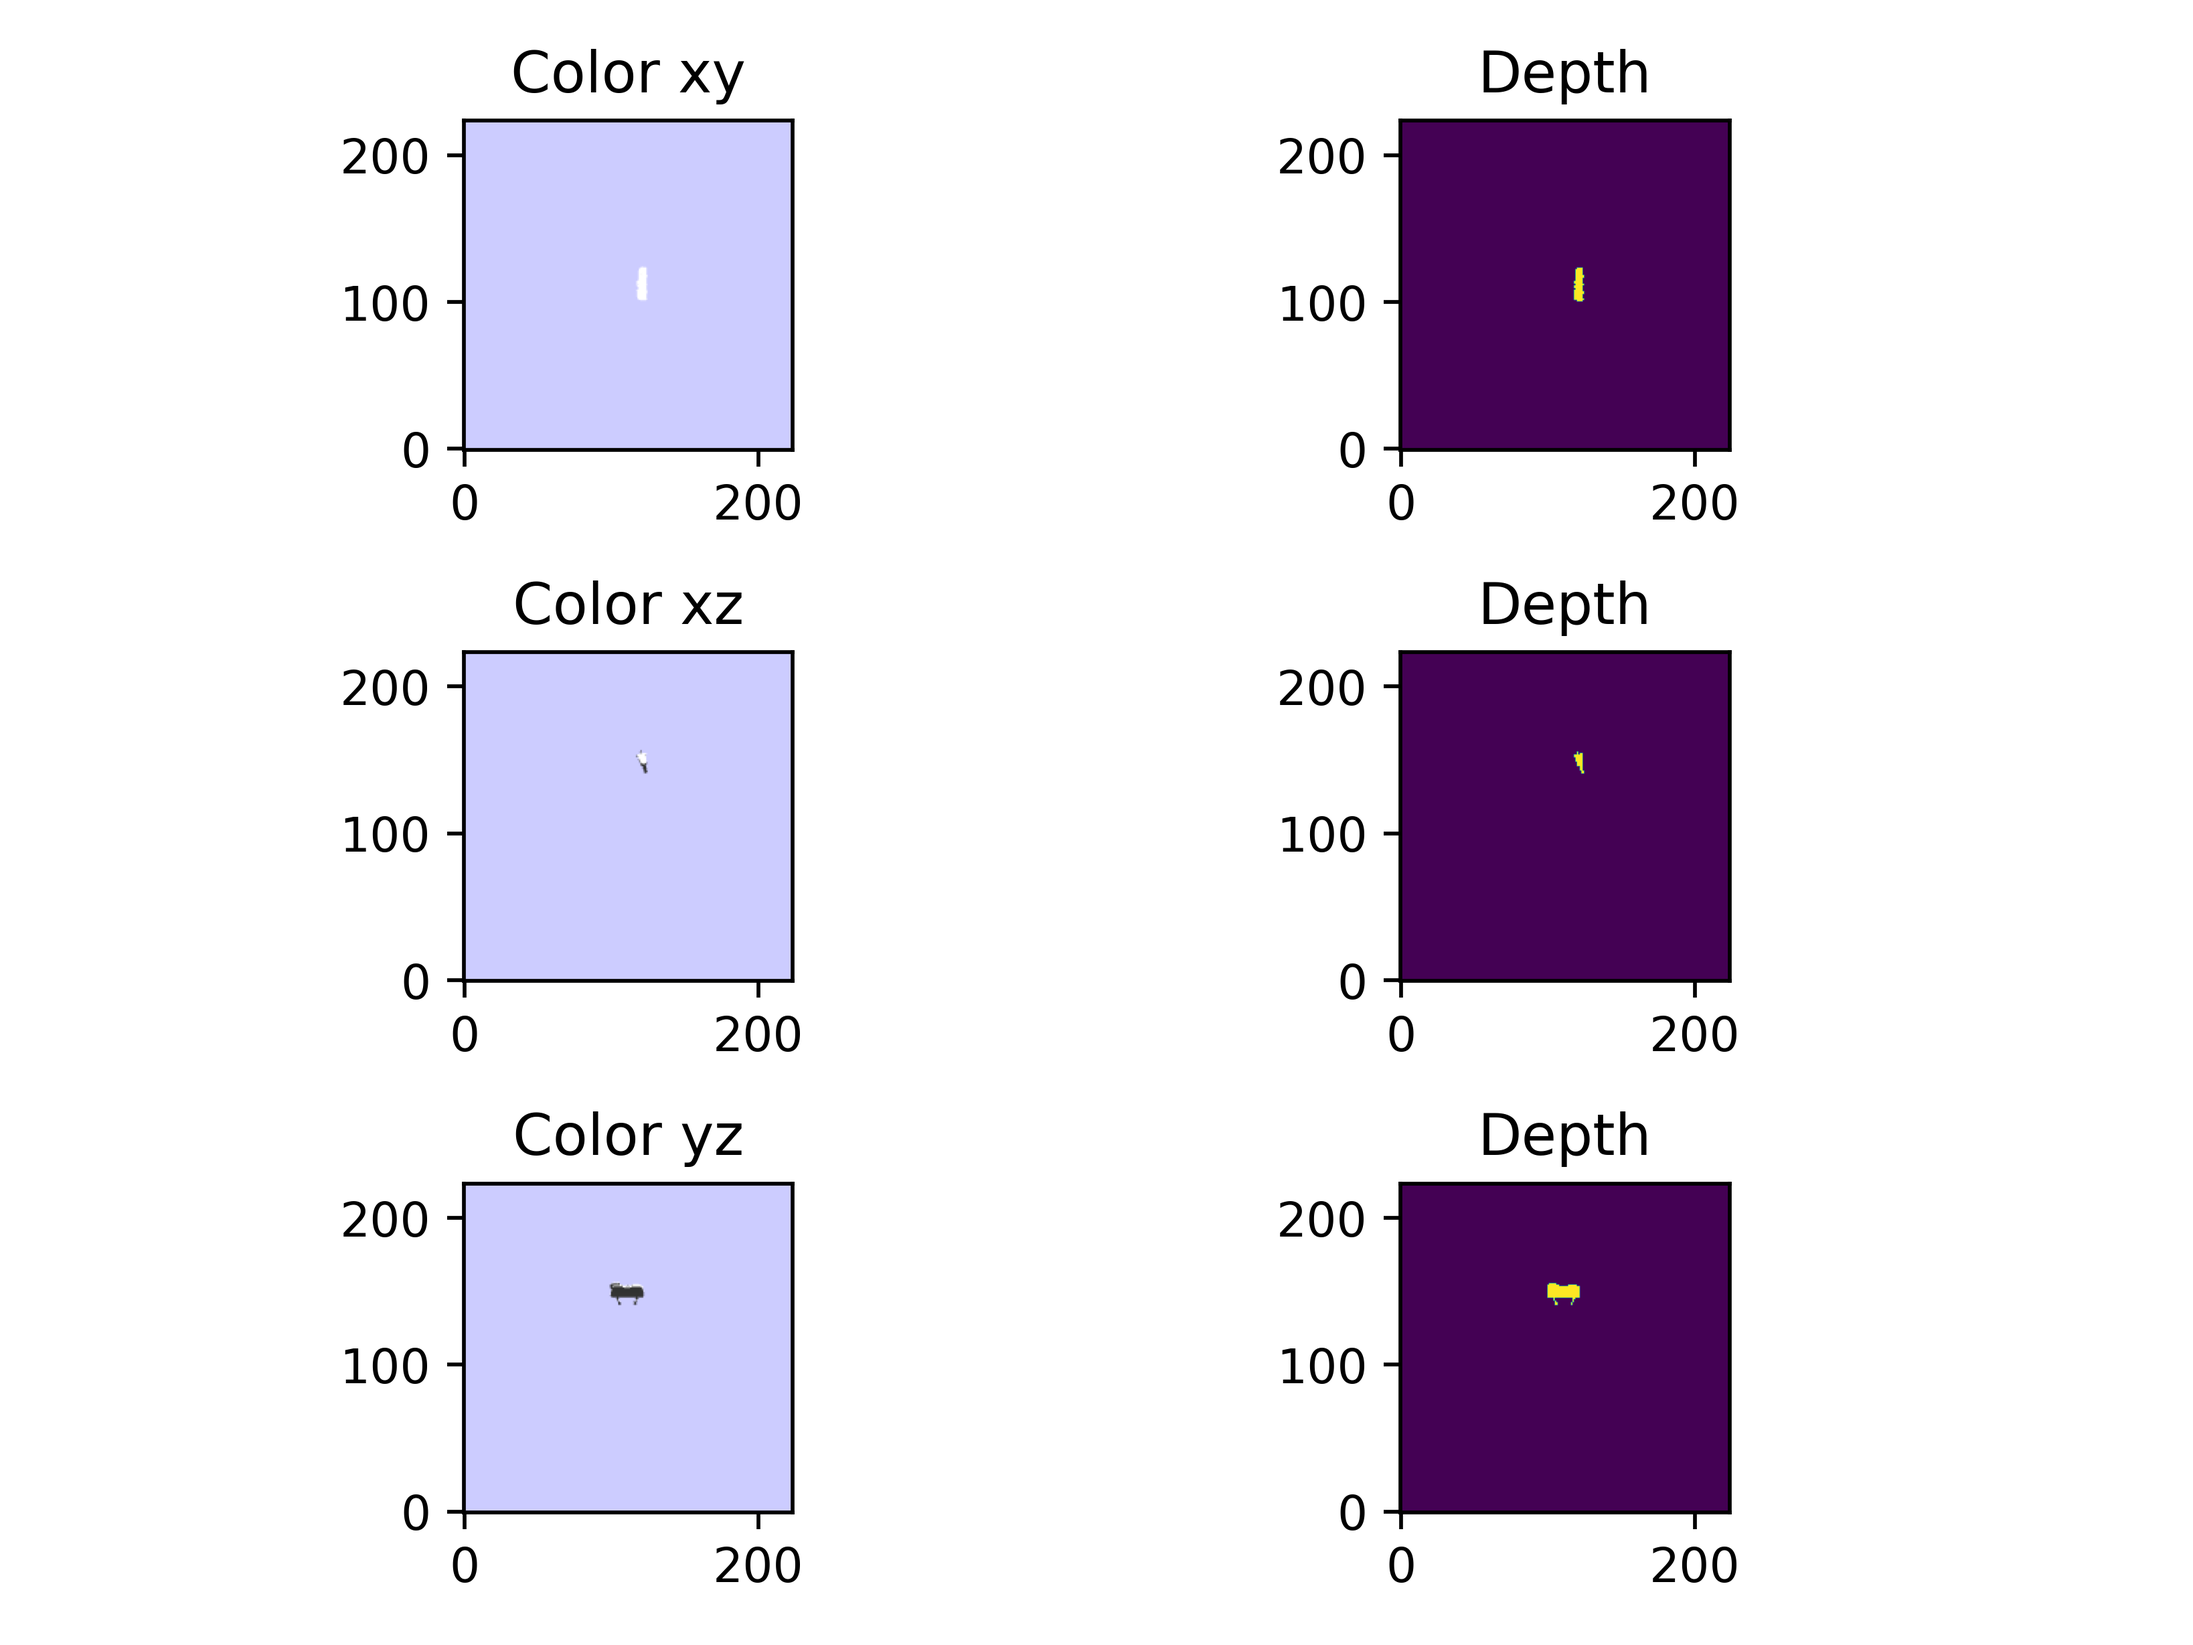
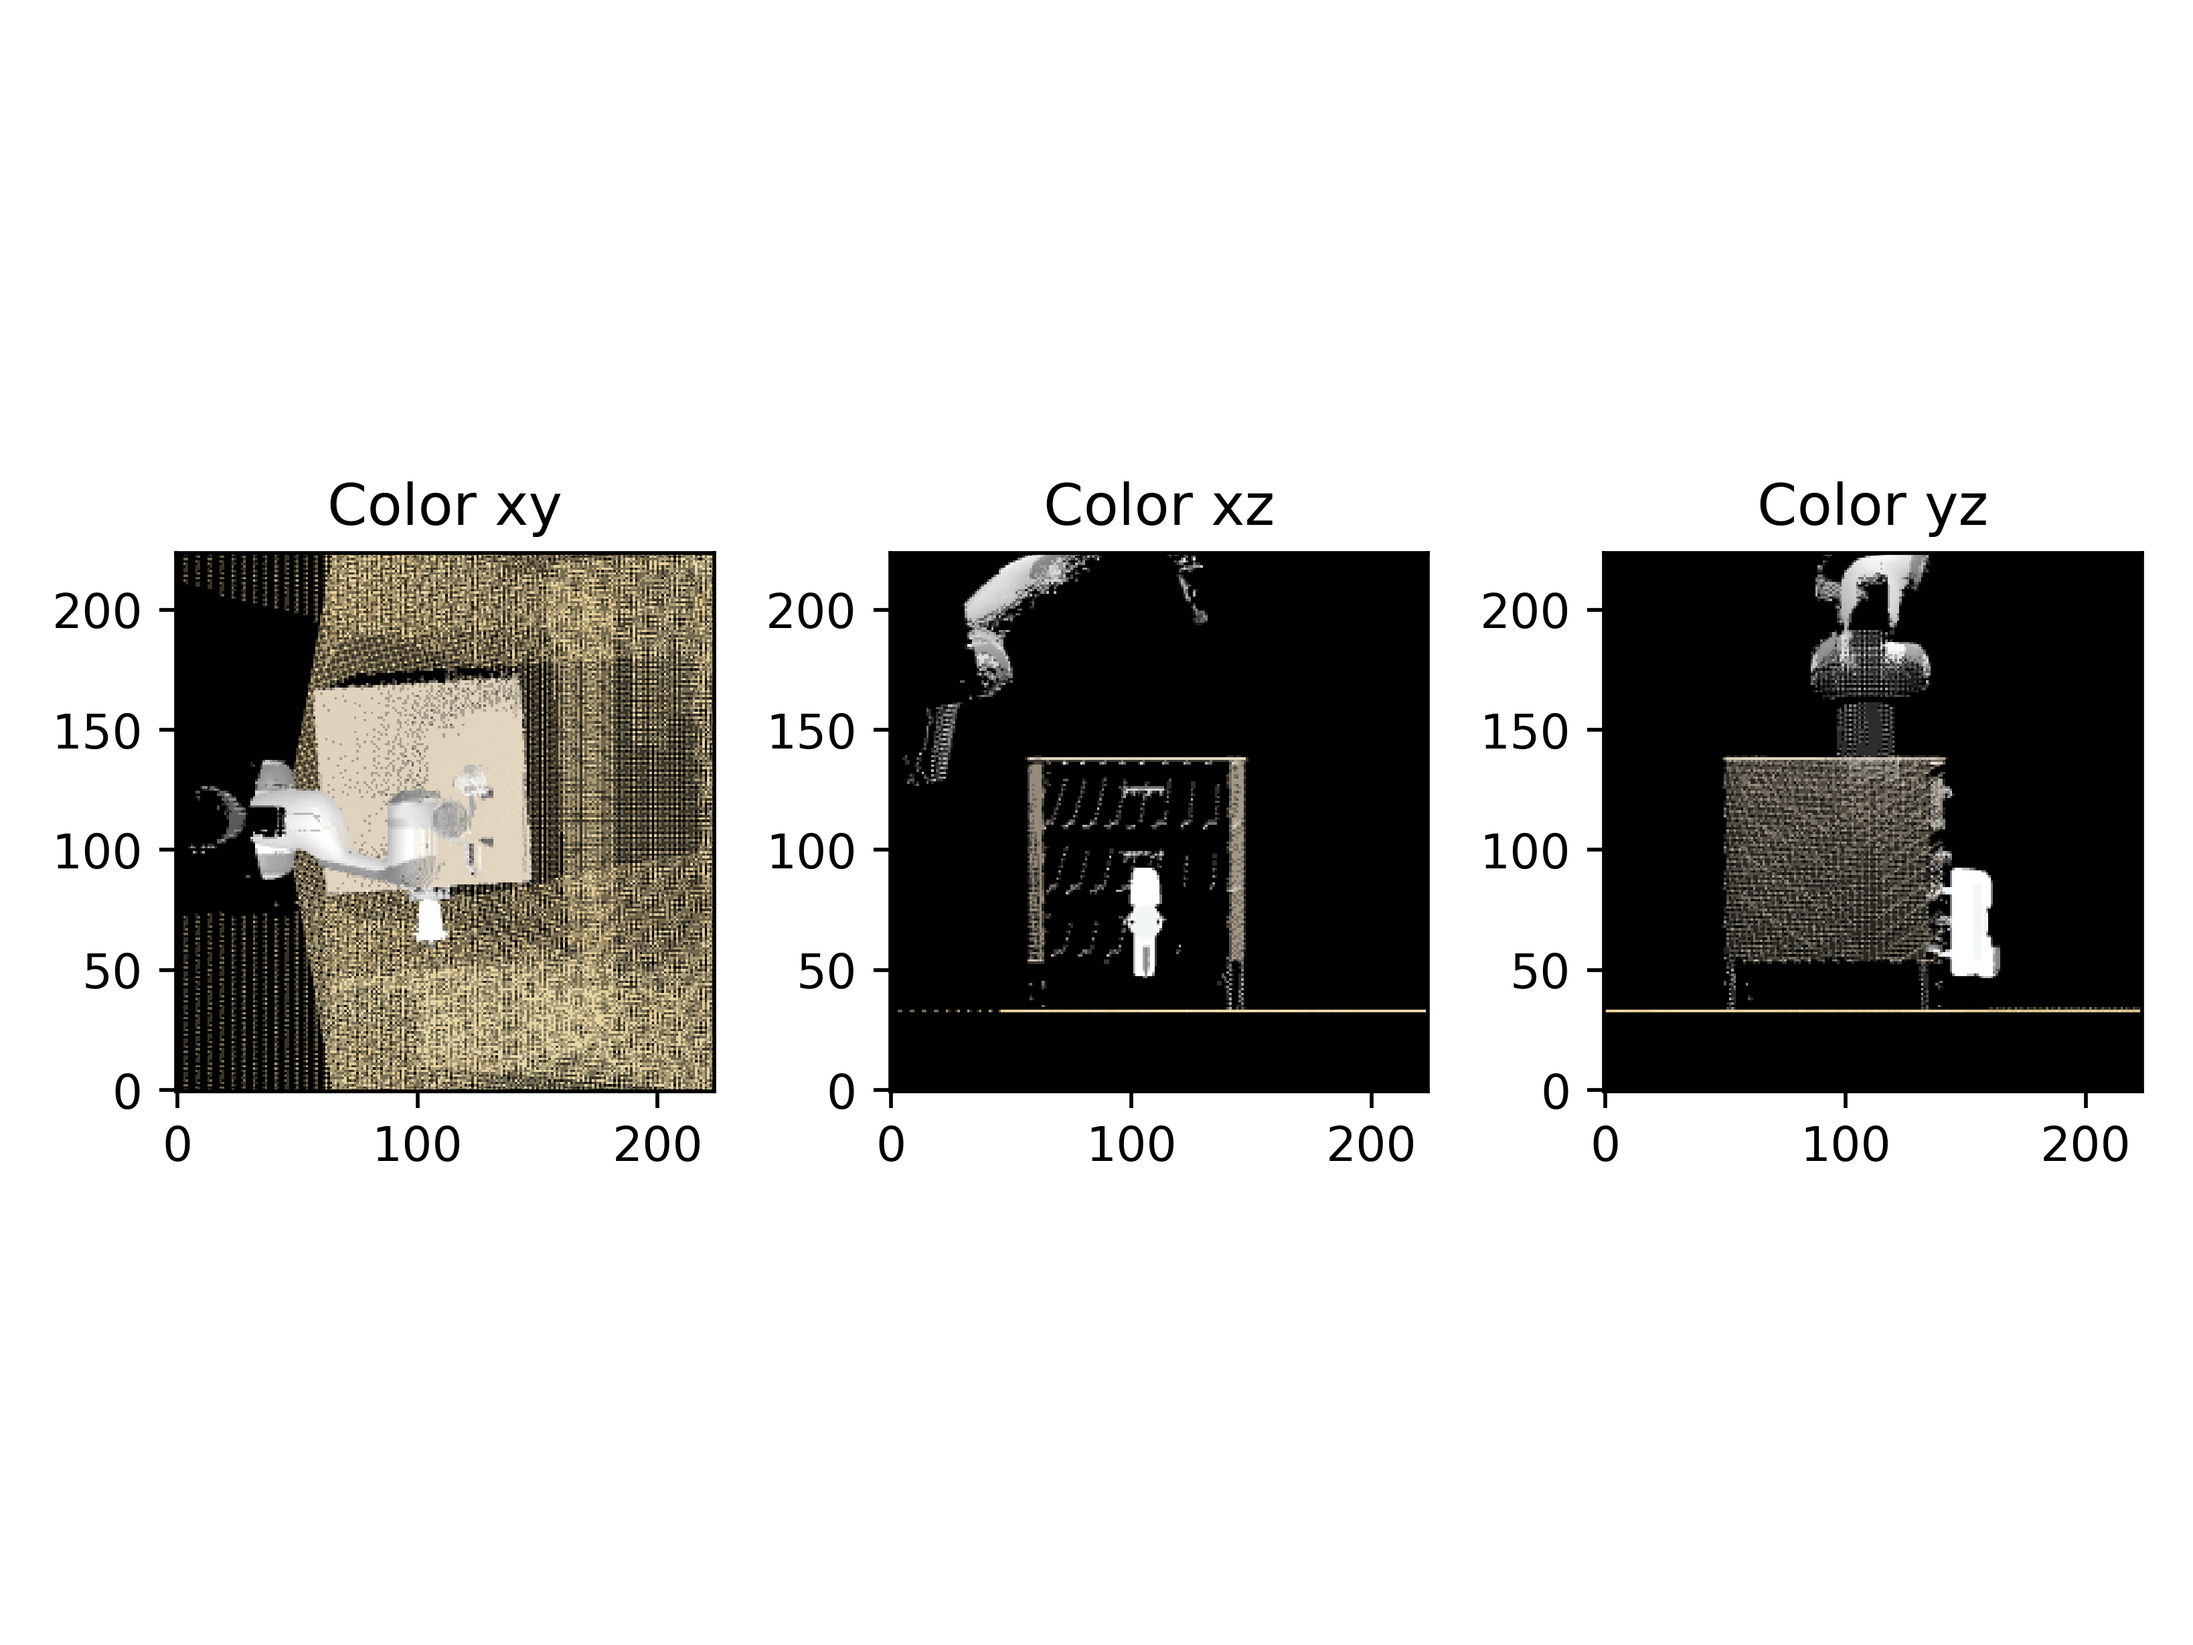
get virtual rendering to work fully!

diff --git a/state_space_diffusion/gripper_rendering.py b/state_space_diffusion/gripper_rendering.py
@@ -62,13 +62,6 @@ def create_hand_node(gripper_width: float = 0.08):
 
     return hand_node
 
-# Stores elev, azim, up.
-camera_tfms = {
-    "xy": (0, 0, (0, 1, 0),),
-    "xz": (90, 0, (0, 0, 1),),
-    "yz": (0, 90, (0, 0, 1),),
-}
-
 def get_camera(camera_id: str, origin=(0, 0, 0)):
     oc = pyrender.OrthographicCamera(xmag=1.0, ymag=1.0)
 
@@ -113,59 +106,100 @@ def get_camera(camera_id: str, origin=(0, 0, 0)):
 
     return oc, matrix
 
-def render_virtual_plan(gripper_matrix: np.ndarray, origin=(0, 0, 0), gripper_width: float = 0.08):
+def render_virtual_plan(gripper_matrix: np.ndarray, origin, points, colors, gripper_width: float = 0.08):
     # Create the scene.
-    scene = pyrender.Scene()
+    scene = pyrender.Scene(ambient_light=[1.0, 1.0, 1.0])
     gripper_node = create_hand_node(gripper_width)
     gripper_node.matrix = gripper_matrix
     scene.add_node(gripper_node)
 
-    # Add ambient light ("Directional Light").
-    dl = pyrender.DirectionalLight(color=[1.0, 1.0, 1.0], intensity=100.0)
-    scene.add(dl)
-
-    # Set background color.
-    scene.bg_color = np.array([0.8, 0.8, 1.0])
+    # RGBA. Make background transparent.
+    scene.bg_color = np.array([0.0, 0.0, 0.0, 1.0])
 
     # Save to file via offscreen renderer.
     renderer = pyrender.OffscreenRenderer(224, 224)
 
+    point_cloud = pyrender.Mesh.from_points(points, colors=colors)
+    scene.add(point_cloud)
+
     # Width and height are inversely proportional to xmag and ymag
+    images = [xy_image, xz_image, yz_image]
     for i, camera_id in enumerate(['xy', 'xz', 'yz']):
         # Create a camera, add it to the scene, and set the main
         # camera node (in place).
         camera, matrix = get_camera(camera_id, origin=origin)
+        camera.xmag = 0.5
+        camera.ymag = 0.5
+        # if camera_id == 'xy':
+        #     camera.xmag = x_scale
+        #     camera.ymag = y_scale
+        #     image = xy_image
+        # elif camera_id == 'xz':
+        #     camera.xmag = x_scale
+        #     camera.ymag = z_scale
+        #     image = xz_image
+        # elif camera_id == 'yz':
+        #     camera.xmag = y_scale
+        #     camera.ymag = z_scale
+        #     image = yz_image
+        # else:
+        #     assert False, "Invalid camera id; should be xy, xz, or yz."
+        # if type(image) == torch.Tensor:
+        #     image = image.detach().cpu().numpy()
+
         camera_node = pyrender.Node(camera=camera, matrix=matrix)
         scene.add_node(camera_node)
         scene.main_camera_node = camera_node
 
         # Oh, cool! We get depth data.
-        color, depth = renderer.render(scene) # type: ignore
+        color, depth = renderer.render(scene, pyrender.RenderFlags.RGBA) # type: ignore
 
-        plt.subplot(3, 2, i * 2 + 1)
+        plt.subplot(1, 3, i * 1 + 1)
         plt.title("Color " + camera_id)
+        # plt.imshow(image, origin='lower')
         plt.imshow(color, origin='lower')
-        plt.subplot(3, 2, i * 2 + 2)
-        plt.title("Depth")
-        plt.imshow(depth, origin='lower')
+        # plt.subplot(3, 2, i * 2 + 2)
+        # plt.title("Depth")
+        # plt.imshow(depth, origin='lower')
         
     plt.tight_layout()
     plt.savefig("gripper_rendering_multiview.png", dpi=512)
 
 from get_data import get_demos
-from voxel_renderer_slow import SCENE_BOUNDS
+from demo_to_state_action_pairs import create_orthographic_labels
+from voxel_renderer_slow import VoxelRenderer, SCENE_BOUNDS
+import torch
+
+device = 'cuda'
+
+# TODO: Switch to PyRender for this.
+renderer = VoxelRenderer(SCENE_BOUNDS, 224, torch.tensor([0, 0, 0], device=device), device=device)
 
 demos = get_demos()
-demo = demos[0]
-obs = demo[0]
+state_action_tuples = create_orthographic_labels(demos[0], renderer, device, include_extra_metadata=True) # type: ignore
 
-gripper_matrix = obs.gripper_matrix
-gripper_width = 0.08 * obs.gripper_open
+# Test with first keypoint.
+(yz_image, xz_image, xy_image), (yz_pos, xz_pos, xy_pos), (start_obs, target_obs) = state_action_tuples[0]
+
+gripper_matrix = target_obs.gripper_matrix
+gripper_width = 0.08 * target_obs.gripper_open
+
+cameras = [
+    'front',
+    'left_shoulder',
+    'right_shoulder',
+    'wrist',
+    'overhead',
+]
+points = [torch.tensor(getattr(start_obs, camera + '_point_cloud').reshape(-1, 3)) for camera in cameras]
+colors = [torch.tensor(getattr(start_obs, camera + '_rgb').reshape(-1, 3) / 255.0) for camera in cameras]
+points = torch.cat(points).numpy()
+colors = torch.cat(colors).numpy()
 
 mins, maxs = np.array(SCENE_BOUNDS).reshape(2, 3)
 origin = (mins + maxs) / 2
-scales = maxs - mins
+scales = 1/(maxs - mins)
 
 gripper_t = list(gripper_matrix[:3, 3])
 
-render_virtual_plan(gripper_matrix, origin, gripper_width)
+render_virtual_plan(gripper_matrix, origin, points, colors, gripper_width)

diff --git a/state_space_diffusion/demo_to_state_action_pairs.py b/state_space_diffusion/demo_to_state_action_pairs.py
@@ -12,7 +12,7 @@ cameras = [
     'overhead',
 ]
 
-def create_orthographic_labels(demo: Demo, renderer: VoxelRenderer, device="cuda", include_eef_pos=False):
+def create_orthographic_labels(demo: Demo, renderer: VoxelRenderer, device="cuda", include_extra_metadata=False):
     keypoints = get_keypoint_observation_indexes(demo)
 
 
@@ -24,11 +24,12 @@ def create_orthographic_labels(demo: Demo, renderer: VoxelRenderer, device="cuda
 
     for keypoint in keypoints:
         # We are predicting KEYPOINT based on our observation at PREVIOUS_POS.
-        obs = demo[previous_pos]
-        eef_pos = demo[keypoint].gripper_pose[:3]
+        start_obs = demo[previous_pos]
+        target_obs = demo[keypoint]
+        eef_pos = target_obs.gripper_pose[:3]
 
-        pcds = [torch.tensor(getattr(obs, camera + '_point_cloud').reshape(-1, 3)) for camera in cameras]
-        colors = [torch.tensor(getattr(obs, camera + '_rgb').reshape(-1, 3) / 255.0) for camera in cameras]
+        pcds = [torch.tensor(getattr(start_obs, camera + '_point_cloud').reshape(-1, 3)) for camera in cameras]
+        colors = [torch.tensor(getattr(start_obs, camera + '_rgb').reshape(-1, 3) / 255.0) for camera in cameras]
         pcd = torch.cat(pcds).to(device)
         color = torch.cat(colors).to(device)
         
@@ -39,8 +40,8 @@ def create_orthographic_labels(demo: Demo, renderer: VoxelRenderer, device="cuda
         (x_image, y_image, z_image) = renderer(pcd, color)
         (x_pos, y_pos, z_pos) = renderer.point_location_on_images(torch.tensor(eef_pos, device=device))
 
-        if include_eef_pos:
-            tuples.append(((x_image, y_image, z_image), (x_pos, y_pos, z_pos), eef_pos))
+        if include_extra_metadata:
+            tuples.append(((x_image, y_image, z_image), (x_pos, y_pos, z_pos), (start_obs, target_obs)))
         else:
             # for compatibility
             tuples.append(((x_image, y_image, z_image), (x_pos, y_pos, z_pos)))

diff --git a/state_space_diffusion/test_v6.py b/state_space_diffusion/test_v6.py
@@ -259,10 +259,10 @@ def evaluate():
     renderer = VoxelRenderer(SCENE_BOUNDS, 224, torch.tensor([0, 0, 0], device=device), device=device)
 
     demos = get_demos()
-    state_action_tuples = create_orthographic_labels(demos[0], renderer, device, include_eef_pos=True) # type: ignore
+    state_action_tuples = create_orthographic_labels(demos[0], renderer, device, include_extra_metadata=True) # type: ignore
 
     # Test with first keypoint.
-    (yz_image, xz_image, xy_image), (yz_pos, xz_pos, xy_pos), pos_3d = state_action_tuples[0]
+    (yz_image, xz_image, xy_image), (yz_pos, xz_pos, xy_pos), (start_obs, target_obs) = state_action_tuples[0]
 
     starting_point = torch.tensor([0.2, 0, 0.8], device=device)
 
